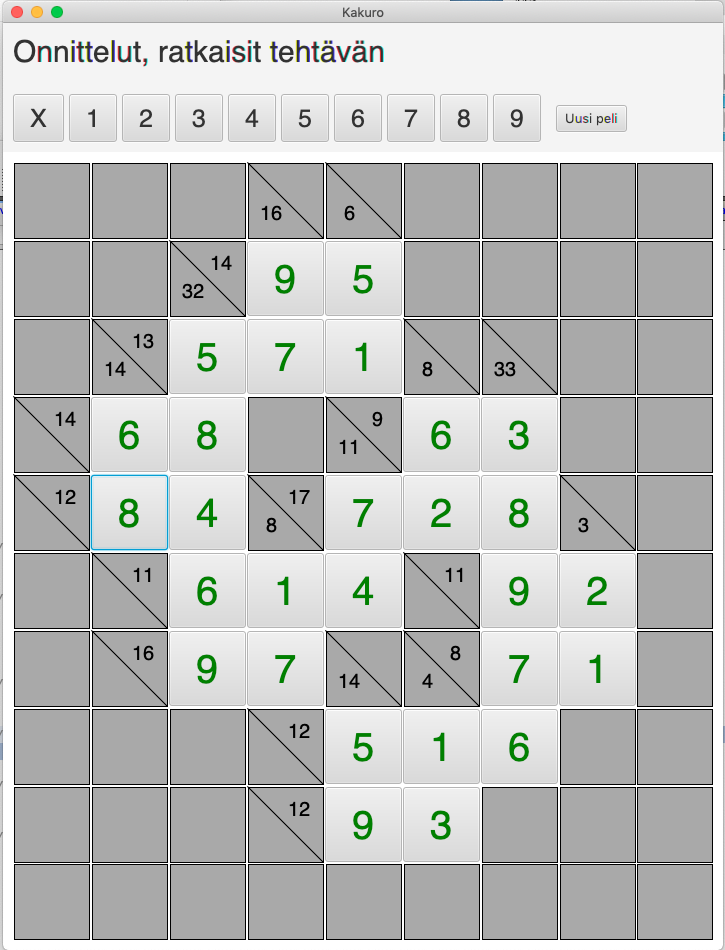
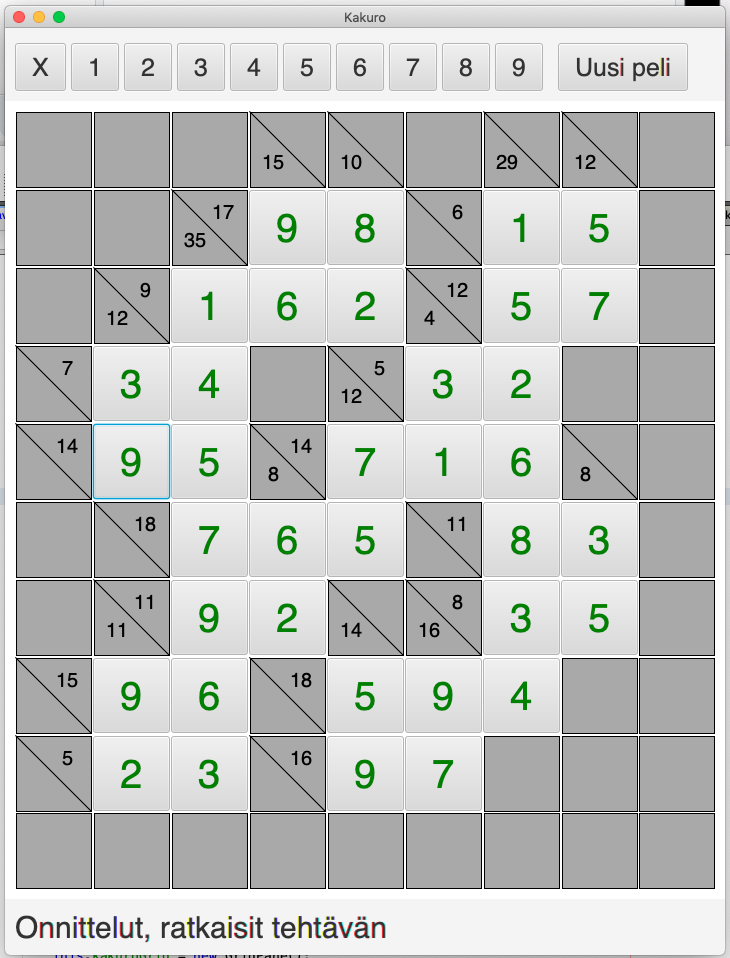
Info-rivi siirretty alareunaan

diff --git a/src/main/java/kakuro/logic/Row.java b/src/main/java/kakuro/logic/Row.java
@@ -44,31 +44,25 @@ public class Row {
     }
 
     /**
-    * Uuden numeron lisäys
-    *
-    */
-    public int addNumber(int number) {
-        this.numbers[number] += 1;
-        this.count += 1;
-        this.sum += number;
-        int res = 0;
-        if (!this.checkSame()) {
-            res = 1;
-        }
-        if (!this.checkSum()) {
-            res += 4;
-        }
-        return res;
-    }
-
-    /**
     * Ruudun numeron vaihtaminen
     *
     */
     public int changeNumber(int oldNumber, int newNumber) {
-        this.numbers[oldNumber] -= 1;
-        this.numbers[newNumber] += 1;
-        this.sum = this.sum - oldNumber + newNumber;
+        if (newNumber != oldNumber) {
+            if (oldNumber == 0) {
+                this.numbers[newNumber] += 1;
+                this.count += 1;
+                this.sum += newNumber;
+            } else if (newNumber == 0) {
+                this.numbers[oldNumber] -= 1;
+                this.count -= 1;
+                this.sum -= oldNumber;
+            } else {
+                this.numbers[oldNumber] -= 1;
+                this.numbers[newNumber] += 1;
+                this.sum = this.sum - oldNumber + newNumber;
+            }
+        } 
         int res = 0;
         if (!this.checkSame()) {
             res = 1;
@@ -79,24 +73,6 @@ public class Row {
         return res;
     }
 
-    /**
-    * Ruudun numeron poistaminen
-    *
-    */
-    public int zeroNumber(int oldNumber) {
-        this.numbers[oldNumber] -= 1;
-        this.count -= 1;
-        this.sum = this.sum - oldNumber;
-        int res = 0;
-        if (!this.checkSame()) {
-            res = 1;
-        }
-        if (!this.checkSum()) {
-            res += 4;
-        }
-        return res;
-    }
-    
     /**
     * Rivin alku x
     *

diff --git a/src/main/java/kakuro/logic/Column.java b/src/main/java/kakuro/logic/Column.java
@@ -47,50 +47,27 @@ public class Column {
         square.setColumn(this);
     }
 
-    /**
-    * Uuden numeron lisäys sarakkeeseen
-    *
-    */
-    public int addNumber(int number) {
-        this.numbers[number] += 1;
-        this.count += 1;
-        this.sum += number;
-        int res = 0;
-        if (!this.checkSame()) {
-            res = 2;
-        }
-        if (!this.checkSum()) {
-            res += 8;
-        }
-        return res;
-    }
 
     /**
-    * Vanhan numeron muuttaminen
+    * Sarakkeen numeron muuttaminen
     *
     */
     public int changeNumber(int oldNumber, int newNumber) {
-        this.numbers[oldNumber] -= 1;
-        this.numbers[newNumber] += 1;
-        this.sum = this.sum - oldNumber + newNumber;
-        int res = 0;
-        if (!this.checkSame()) {
-            res = 2;
-        }
-        if (!this.checkSum()) {
-            res += 8;
-        }
-        return res;
-    }
-
-    /**
-    * Ruudun numeron nollaus
-    *
-    */
-    public int zeroNumber(int oldNumber) {
-        this.numbers[oldNumber] -= 1;
-        this.count -= 1;
-        this.sum = this.sum - oldNumber;
+        if (newNumber != oldNumber) {
+            if (oldNumber == 0) {
+                this.numbers[newNumber] += 1;
+                this.count += 1;
+                this.sum += newNumber;
+            } else if (newNumber == 0) {
+                this.numbers[oldNumber] -= 1;
+                this.count -= 1;
+                this.sum -= oldNumber;
+            } else {
+                this.numbers[oldNumber] -= 1;
+                this.numbers[newNumber] += 1;
+                this.sum = this.sum - oldNumber + newNumber;
+            }
+        } 
         int res = 0;
         if (!this.checkSame()) {
             res = 2;

diff --git a/src/main/java/kakuro/logic/Square.java b/src/main/java/kakuro/logic/Square.java
@@ -40,7 +40,7 @@ public class Square {
     }
 
     /**
-    * Ruudun sarakkeen asettaminen
+    * Ruudun sarakkeen merkitseminen
     *
     */
     public void setColumn(Column column) {
@@ -52,35 +52,14 @@ public class Square {
     *
     */
     public int setNumber(int number) {
-        if (this.number == 0) {
-            this.number = number;
-            int res = this.row.addNumber(number);
-            return res + this.column.addNumber(number);
-        } else {
-            int oldNumber = this.number;
-            this.number = number;
-            int res = this.row.changeNumber(oldNumber, number);
-            return res + this.column.changeNumber(oldNumber, number);
-        }
+        int oldNumber = this.number;
+        this.number = number;
+        int res = this.row.changeNumber(oldNumber, number);
+        return res + this.column.changeNumber(oldNumber, number);
     }
 
     /**
-    * Ruudun numeron pyyhkiminen pois
-    *
-    */
-    public int zeroNumber() {
-        if (this.number == 0) {
-            return 0;
-        } else {
-            int oldNumber = this.number;
-            this.number = 0;
-            int res = this.row.zeroNumber(oldNumber);
-            return res + this.column.zeroNumber(oldNumber);
-        }
-    }
-
-    /**
-    * Ruudussa oleva numero
+    * Ruudussa olevan numeron haku
     *
     */
     public int getNumber() {

diff --git a/src/main/java/kakuro/ui/GameUi.java b/src/main/java/kakuro/ui/GameUi.java
@@ -81,9 +81,9 @@ public class GameUi {
         createKakuroGrid();
 
 // Pelin layout
-        this.gameLayout.setTop(this.infoText);
-        this.gameLayout.setCenter(this.numberGrid);
-        this.gameLayout.setBottom(this.kakuroGrid);
+        this.gameLayout.setTop(this.numberGrid);
+        this.gameLayout.setCenter(this.kakuroGrid);
+        this.gameLayout.setBottom(this.infoText);
 
 // Numerovalinnat näppäimistöltä        
         this.scene = new Scene(gameLayout);
@@ -147,7 +147,7 @@ public class GameUi {
         int res = 0;
         if (rx == 0) {
             this.buttons[this.yfocus][this.xfocus].setText("  ");
-            res = puzzle.zeroSquare(this.yfocus,this.xfocus);
+            res = puzzle.setSquare(this.yfocus,this.xfocus, 0);
         } else {
             this.buttons[this.yfocus][this.xfocus].setText(Integer.toString(rx));
             res = puzzle.setSquare(this.yfocus,this.xfocus, rx);
@@ -172,6 +172,7 @@ public class GameUi {
     */
     private void newGameButton() {
         Button newGame = new Button("Uusi peli");
+        newGame.setFont(Font.font("Helvetica", 25));
         this.numberGrid.add(newGame, 12, 1);
         newGame.setOnAction((event) -> {
             this.newGame();

diff --git a/src/main/java/kakuro/logic/Puzzle.java b/src/main/java/kakuro/logic/Puzzle.java
@@ -130,15 +130,6 @@ public class Puzzle {
         return squares[i][j].setNumber(number);
     }
 
-    
-    /**
-    * Numeron pyyhkiminen pois
-    *
-    */
-    public int zeroSquare(int i, int j) {
-        return squares[i][j].zeroNumber();
-    }
-
     /**
     * Tarkistetaan, voiko ruutuun laittaa numeron
     *

diff --git a/dokumentaatio/kayttoohje.md b/dokumentaatio/kayttoohje.md
@@ -18,11 +18,11 @@ Sovellusta käytetään JavaFX:llä luodun käyttöliittymän avulla :
 <img src="KakuroUi.png" width="750">
 
 
-Kakuro-ruudukossa on tyhjiä ruutuja, joihin täytetään numeroita vaaka- ja pystysuoraan käyttäen numeroita 1-9.  Samassa kentässä vaaka- tai pystyrivillä ei saa olla kahta samaa numeroa. Vaaka- ja pystyrivien lukujen tulee toteuttaa summa, joka on merkitty ruudukkoon.
+Kakuro-ruudukossa on tyhjiä ruutuja, jotka täytetään käyttäen numeroita 1-9.  Samassa kentässä vaaka- tai pystyrivillä ei saa olla kahta samaa numeroa. Vaaka- ja pystyrivien lukujen tulee toteuttaa summa, joka on merkitty ruudukkoon.
 
-Sovellusikkunan alaosassa on varsinainen Kakuro-ruudukko.   Yläosassa on numeroiden valintaruudukko ja info-tekstin alue.
+Sovellusikkunan keskellä on varsinainen Kakuro-ruudukko.   Kakuro-ruudukon yläpuolella on numeroiden valintarivi ja alhaalla on info-tekstin alue.
 
-Käyttäjä valitsee jonkin Kakuro-ruudukon ruuduista hiirellä näpäyttämällä.   Sen jälkeen hän valitsee kyseiseen ruutuun sopivan luvun.  Luvun voi valita yläreunan numerorivistä tai painamalla näppäimistöltä.  
+Käyttäjä valitsee jonkin Kakuro-ruudukon ruuduista hiirellä näpäyttämällä.   Sen jälkeen hän syöttää kyseiseen ruutuun sopivan luvun.  Luvun voi valita yläreunan numerorivistä tai painamalla näppäimistöltä.  
 
 Jos ruutuun valittu luku ei toteuta ruudun ehtoja (väärä summa tai sama luku kahdesti), käyttäjä saa ilmoituksen virheestä.  Virheelliset numerot muuttuvat punaisiksi.  Virheellisen numeron saa poistettua painamalla X-nappia tai valitsemalla 0 näppäimistöltä.
 

diff --git a/dokumentaatio/tyoaikakirjanpito.md b/dokumentaatio/tyoaikakirjanpito.md
@@ -14,4 +14,5 @@
 | 01.12. | 3    | Käyttöliittymän parantelua, värien lisääminen|
 | 03.12. | 8    | Käyttöliittymän parantelua, dokumentaatiota
 | 07.12. | 7    | Käyttöliittymän muutoksia
- yht    | 54   | 
+| 08.12. | 5    | Käyttöliittymän muutoksia, Row- ja Column -luokan muutoksia
+yht    | 59   | 
